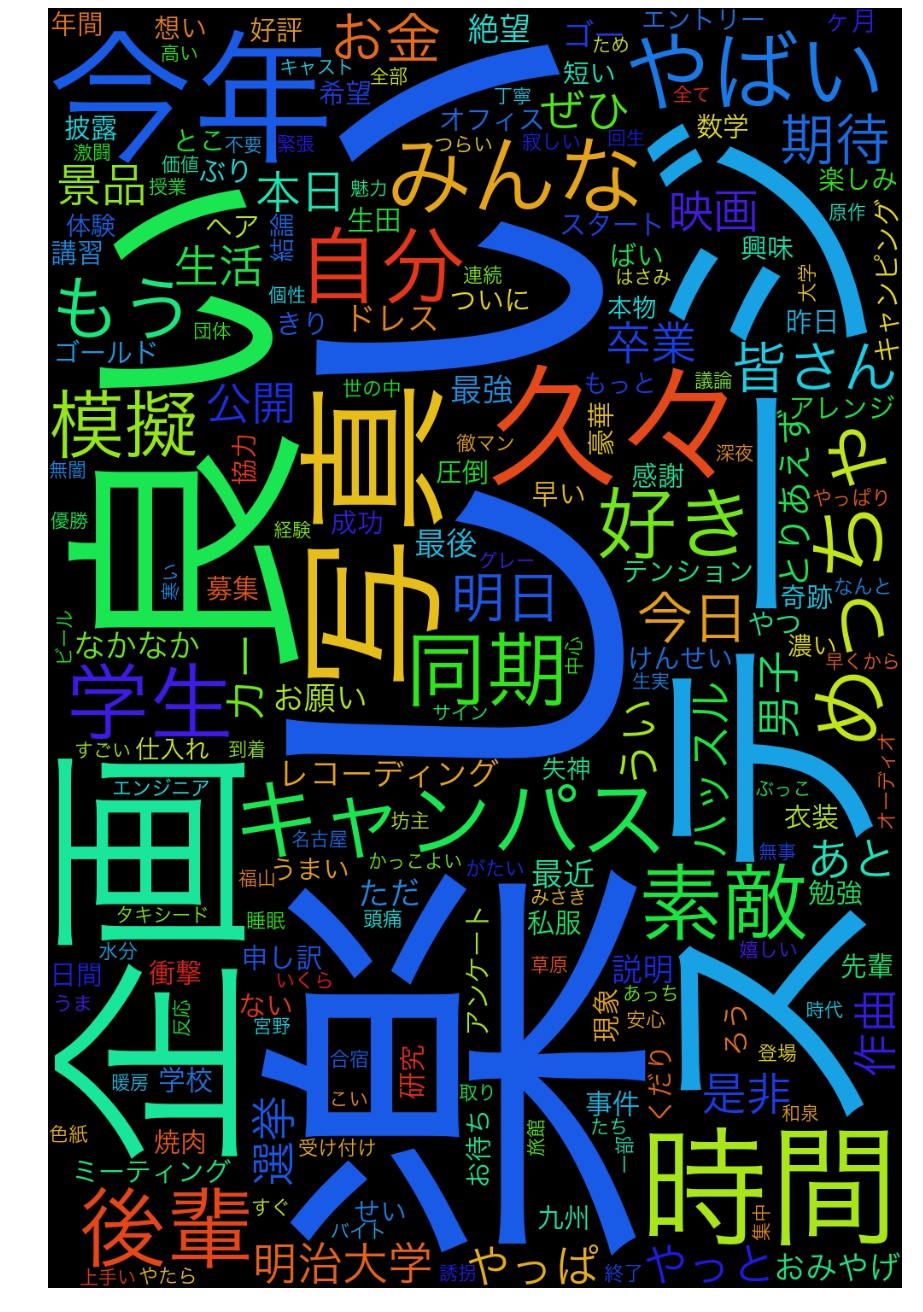
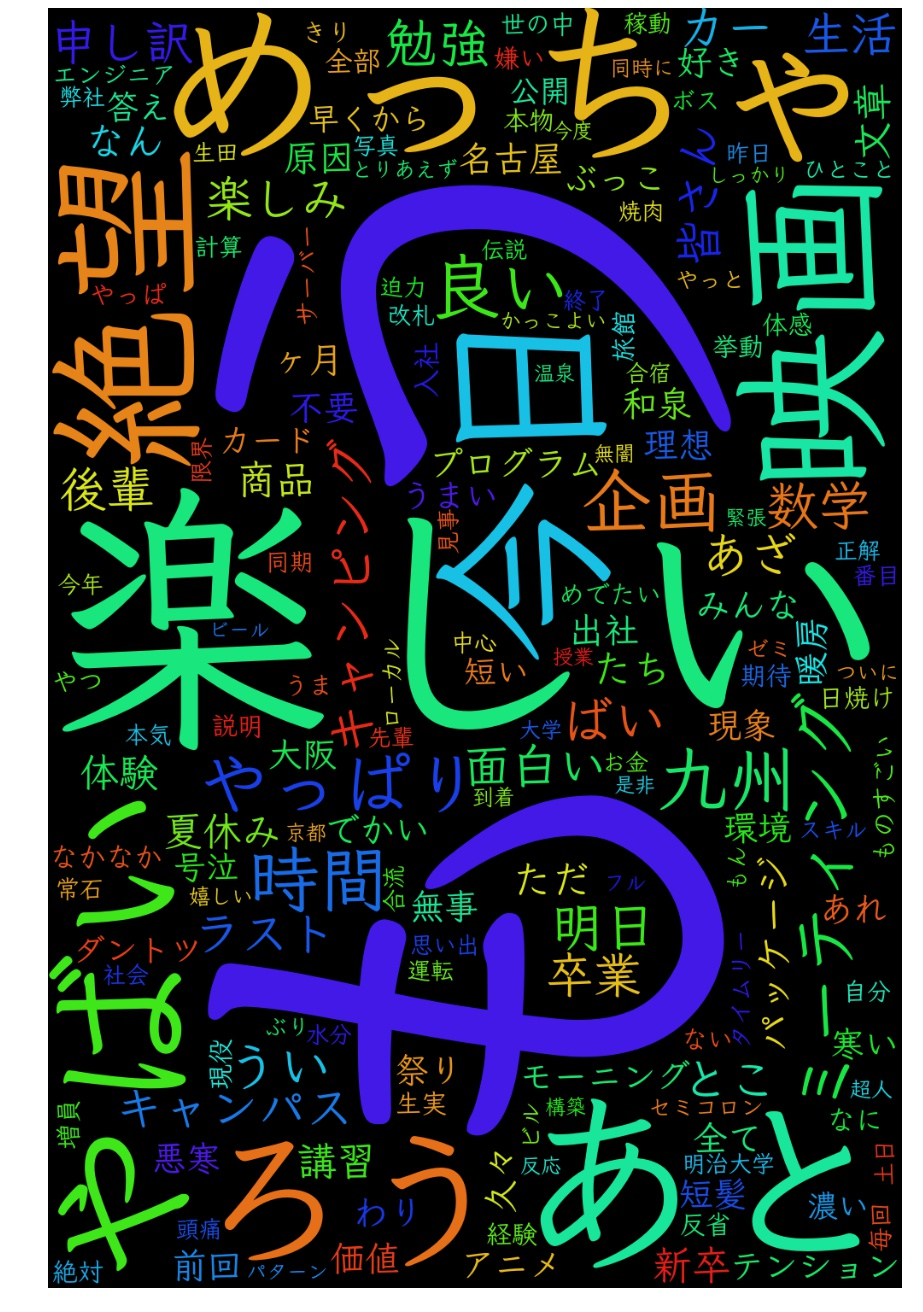
dir分割

diff --git a/templates/Top.html b/templates/Top.html
@@ -5,6 +5,9 @@
 <font size="10">あなたのTweetの最新150件からWordCloudを作成します！</font>
 <center><font size="8">まずはアカウント認証画面へ！</font></center>
 <center><img src="static/icon.gif"　width="500" height="500" onclick="location.href='{{url}}'" border="0" ></center>
+<font size="10">あなたのTweetの最新150件からReplyのランキングを作成します！</font>
+<center><font size="8">まずはアカウント認証画面へ！</font></center>
+<center><img src="static/icon2.gif"　width="500" height="500" onclick="location.href='{{url}}'" border="0" ></center>
 <font size="6">・次の画面であなたのIDとPassを入力してください</font><br>
 <font size="6">・入力を終えたら認証ボタンをおしてください</font><br>
 <font size="8"><span style="padding:6px 10px; background:#008000; color:#ffffff; font-weight:bold; border-radius: 10px;">【WordCloudとは】</span><div style="border:1px solid #000066; padding:10px; font-size:0.9em; margin-top:2px; border-radius: 10px;">文章中で出現頻度が高い単語を複数選び出し、その頻度に応じた大きさで図示する手法</div></font>

diff --git a/app.py b/app.py
@@ -6,13 +6,14 @@ from flask import render_template
 from flask import request, redirect, url_for
 import sys
 import tweepy
-import MeCab
 from wordcloud import WordCloud
 import matplotlib.pyplot as plt
 import requests
 import numpy as np
 import scipy as sp
 sys.path.append("/Library/Python/2.7/site-packages")
+sys.path.append("/Users/chan-p/GitHub/Twitter-Analysis/model")
+import word_cloud
 
 app = Flask(__name__)
 app.config['DEBUG'] = True
@@ -20,57 +21,25 @@ app.config['DEBUG'] = True
 # auth = tweepy.OAuthHandler('SjT3DTgX44ZCfLpk8cs7Joncb','IeIk6PYvhkDLIJd7cQp8ZV6mLSQuLS76jQOphCFo2TWPF6K60d')
 ##Local Version
 auth = tweepy.OAuthHandler('wUPAJgKmupzKL5Y97vKeMuCGA','ApxmVcuJLRluNjL3I5cCxQk9hNfNgE5pHYivZnnHzzNDcHT9sb')
-mt = MeCab.Tagger("mecabrc")
-
 
 @app.route('/')
 def Top():
     return render_template("Top.html",url=auth.get_authorization_url())
 
-
-@app.route('/mainpage')
-def mainpage():
+@app.route('/wordcloud')
+def secound():
+    word = word_cloud.wc()
     api = __get_API()
-
-    textl = []
-    stop_words = __get_stopwords()
-    for tweet in tweepy.Cursor(api.user_timeline, id=__get_username(api)).items(150):
-        res = mt.parseToNode(str(tweet.text.encode("utf-8")))
-        while res:
-            feat = res.feature.split(",")
-            if (feat[0] == "名詞" or feat[0] == "形容詞" or feat[0] == "副詞") and (res.surface.isalpha() == False) and (res.surface.isdigit() == False) and (res.surface not in stop_words):
-                textl.append(feat[6])
-            res = res.next
-
-    wc = create_wordcloud(" ".join(textl).decode("utf-8"))
-    plt.figure(figsize=(13,16))
-    plt.imshow(wc)
-    plt.axis("off")
-    plt.savefig("/Users/TomonotiHayshi/GitHub/Python/App/Wordcloud/system/static/cloud.jpg", bbox_inches='tight', pad_inches=0.0)
-    # imgar = nd[y: y+h, x: x+w]
-    # sp.misc.imsave('test.jpg', imgar)
-    return render_template("next.html",image="static/cloud.jpg")
-    # return redirect(url_for('static',filename='cloud.jpg'))
+    word.make_picture(api)
+    return render_template("next.html",image="./static/cloud.jpg",bbox_inches='tight',pad_inches=0.0)
 
 def __get_oauth_ver():
     return request.args.get("oauth_verifier", "Not defined")
-
-def __get_username(api):
-    return (api.me()._json)['screen_name']
-
-def __get_stopwords():
-    stop_words = ['てる','いる','なる','れる','する','ある','こと','これ','さん','して','くれる','やる','くださる','そう','せる','した','思う','それ','ここ','ちゃん','くん', '', 'て','に','を','は','の','が','と','た','し','で','ない','も','な','い','か','ので','よう',' ','https','CO','RT','*','笑','さん','すぎ','いい']
-    return stop_words
 
 def __get_API():
     auth.get_access_token(__get_oauth_ver())
     auth.set_access_token(auth.access_token,auth.access_token_secret)
     return tweepy.API(auth)
-
-def create_wordcloud(text):
-    fpath = "/Library/Fonts/AppleSDGothicNeo-ExtraBold.otf"
-    word = WordCloud(background_color="black",font_path=fpath,width=1000,height=1500).generate(text)
-    return word
 
 if __name__=="__main__":
     app.run(host='0.0.0.0',port=80,threaded=True)

diff --git a/model/word_cloud.py b/model/word_cloud.py
@@ -1,0 +1,44 @@
+#!/usr/bin/env python
+# -*- coding: utf-8 -*-
+import sys
+import tweepy
+import MeCab
+from wordcloud import WordCloud
+import matplotlib.pyplot as plt
+import requests
+import numpy as np
+import scipy as sp
+sys.path.append("/Library/Python/2.7/site-packages")
+
+class wc:
+    def __init__(self):
+        self.mt = MeCab.Tagger("mecabrc")
+
+    def make_picture(self,api):
+        textl = []
+        stop_words = self.__get_stopwords()
+        for tweet in tweepy.Cursor(api.user_timeline, id=self.__get_username(api)).items(70):
+            res = self.mt.parseToNode(str(tweet.text.encode("utf-8")))
+            while res:
+                feat = res.feature.split(",")
+                if (feat[0] == "名詞" or feat[0] == "形容詞" or feat[0] == "副詞") and (res.surface.isalpha() == False) and (res.surface.isdigit() == False) and (res.surface not in stop_words):
+                    textl.append(feat[6])
+                res = res.next
+
+        wc_pic = self.__create_wordcloud(" ".join(textl).decode("utf-8"))
+        plt.figure(figsize=(13,16))
+        plt.imshow(wc_pic)
+        plt.axis("off")
+        plt.savefig("/Users/chan-p/GitHub/Twitter-Analysis/static/cloud.jpg", bbox_inches='tight', pad_inches=0.0)
+
+    def __get_stopwords(self):
+        stop_words = ['てる','いる','なる','れる','する','ある','こと','これ','さん','して','くれる','やる','くださる','そう','せる','した','思う','それ','ここ','ちゃん','くん', '', 'て','に','を','は','の','が','と','た','し','で','ない','も','な','い','か','ので','よう',' ','https','CO','RT','*','笑','さん','すぎ','いい']
+        return stop_words
+
+    def __create_wordcloud(self,text):
+        fpath = "/Library/Fonts/Klee.ttc"
+        word = WordCloud(background_color="black",font_path=fpath,width=1000,height=1500).generate(text)
+        return word
+
+    def __get_username(self,api):
+        return (api.me()._json)['screen_name']
